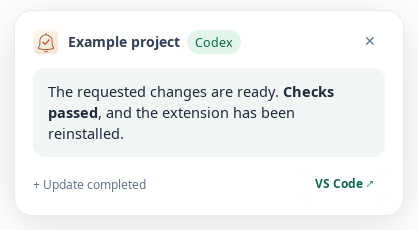
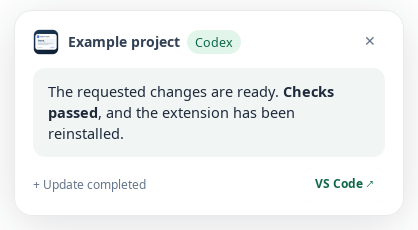
feat: add reply-preview branding and Marketplace packaging
Unpublished snapshot reissued with Commons Clause before the first public release.

Changed region(s): [[0.0622, 0.1217, 0.1555, 0.2435]]

diff --git a/media/sidebar.html b/media/sidebar.html
@@ -10,12 +10,22 @@
   <div class="header">
     <div class="header-title">
       <svg xmlns="http://www.w3.org/2000/svg" viewBox="0 0 256 256" class="sidebar-brand" data-notifier-logo="brand" aria-hidden="true">
-<defs><linearGradient id="bg" x2="0.3" y2="1"><stop stop-color="#FFF9EF" /><stop offset="1" stop-color="#F5E6D3" /></linearGradient></defs>
-<rect x="8" y="8" width="240" height="240" rx="54" fill="url(#bg)" />
-<rect x="8.5" y="8.5" width="239" height="239" rx="53.5" fill="none" stroke="#954322" stroke-opacity=".16" />
-<path d="M128 42v13M68 116C68 94 77 79 97 67Q128 49 159 67C179 79 188 94 188 116V142Q188 163 201 180Q208 190 195 194Q128 209 61 194Q48 190 55 180Q68 163 68 142Z" fill="none" stroke="#954322" stroke-width="8" stroke-linecap="round" stroke-linejoin="round" />
-<path d="M115 218Q128 230 141 218" fill="none" stroke="#954322" stroke-width="8" stroke-linecap="round" />
-<path d="M99 130l21 21 39-44" fill="none" stroke="#BD562A" stroke-width="13" stroke-linecap="round" stroke-linejoin="round" />
+<defs><linearGradient id="reply-bg" x2="0.4" y2="1"><stop stop-color="#1E3B57" /><stop offset="1" stop-color="#102237" /></linearGradient></defs>
+<rect x="8" y="8" width="240" height="240" rx="54" fill="url(#reply-bg)" />
+<rect x="23" y="57" width="210" height="155" rx="24" fill="#07131F" opacity=".35" />
+<rect x="23" y="49" width="210" height="155" rx="24" fill="#FFFFFF" />
+<rect x="38" y="63" width="24" height="24" rx="7" fill="#2563EB" />
+<path d="M55 75H44m0 0 4-4m-4 4 4 4" fill="none" stroke="#FFFFFF" stroke-width="2.4" stroke-linecap="round" stroke-linejoin="round" />
+<text x="71" y="80" font-family="DejaVu Sans, sans-serif" font-size="14" font-weight="700" fill="#30445A">Agent reply</text>
+<path d="m207 72 6 6m0-6-6 6" fill="none" stroke="#8D9CAB" stroke-width="1.8" stroke-linecap="round" />
+<rect x="36" y="96" width="184" height="66" rx="13" fill="#F0F4F7" />
+<text x="49" y="122" font-family="DejaVu Sans, sans-serif" font-size="21" font-weight="700" fill="#16324A">Done.</text>
+<path d="M50 139h143m-143 10h101" fill="none" stroke="#9AADB9" stroke-width="4" stroke-linecap="round" />
+<circle cx="47" cy="182" r="6" fill="#D8F4E8" />
+<path d="m44 182 2 2 4-4" fill="none" stroke="#16855D" stroke-width="1.8" stroke-linecap="round" stroke-linejoin="round" />
+<text x="59" y="186" font-family="DejaVu Sans, sans-serif" font-size="11" fill="#6E8394">Ready</text>
+<rect x="159" y="172" width="59" height="20" rx="7" fill="#EAF1FD" />
+<path d="M172 182h29m-5-4 5 4-5 4" fill="none" stroke="#2563EB" stroke-width="2" stroke-linecap="round" stroke-linejoin="round" />
 </svg>
       <span>Codex Ubuntu Notifications</span>
     </div>
@@ -145,9 +155,8 @@
   </div>
 
   <button class="btn btn-full" id="testBtn">
-    <svg xmlns="http://www.w3.org/2000/svg" viewBox="28 30 200 200" class="svg-icon notifier-glyph" data-notifier-logo="glyph" aria-hidden="true"><path d="M128 42v13M68 116C68 94 77 79 97 67Q128 49 159 67C179 79 188 94 188 116V142Q188 163 201 180Q208 190 195 194Q128 209 61 194Q48 190 55 180Q68 163 68 142Z" fill="none" stroke="currentColor" stroke-width="8" stroke-linecap="round" stroke-linejoin="round" />
-<path d="M115 218Q128 230 141 218" fill="none" stroke="currentColor" stroke-width="8" stroke-linecap="round" />
-<path d="M99 130l21 21 39-44" fill="none" stroke="currentColor" stroke-width="13" stroke-linecap="round" stroke-linejoin="round" />
+    <svg xmlns="http://www.w3.org/2000/svg" viewBox="0 0 24 24" class="svg-icon notifier-glyph" data-notifier-logo="glyph" aria-hidden="true">
+<path d="M5 2a4 4 0 0 0-4 4v10a4 4 0 0 0 4 4v3l5-3h9a4 4 0 0 0 4-4V6a4 4 0 0 0-4-4H5Zm0 2h14a2 2 0 0 1 2 2v10a2 2 0 0 1-2 2H9.4L7 19.4V18H5a2 2 0 0 1-2-2V6a2 2 0 0 1 2-2ZM6 7h12v2H6Zm0 4h9v2H6Z" fill="currentColor" stroke="none" fill-rule="evenodd" />
 </svg>
     <span>Send Test Notification Now</span>
   </button>

diff --git a/scripts/package.js b/scripts/package.js
@@ -4,12 +4,19 @@ const path = require("node:path");
 const { spawnSync } = require("node:child_process");
 
 const root = path.resolve(__dirname, "..");
-const { name, version } = require(path.join(root, "package.json"));
-const destination = path.join(root, "dist", `${name}-${version}.vsix`);
+const { name, version, repository } = require(path.join(root, "package.json"));
+const marketplace = process.argv.includes("--marketplace");
+const destination = path.join(root, "dist", `${name}-${version}${marketplace ? "-marketplace" : ""}.vsix`);
 fs.mkdirSync(path.dirname(destination), { recursive: true });
-// Local VSIX documentation uses its bundled screenshots, including before the
-// updated files have been pushed to the repository.
-const result = spawnSync("vsce", ["package", "--no-dependencies", "--no-rewrite-relative-links", "--out", destination], {
+// Local packages use bundled images; Marketplace packages use HTTPS URLs pinned
+// to the release tag, which must be public before the Marketplace upload.
+const repo = repository.url.replace(/\.git$/, "").replace(/\/$/, "");
+if (marketplace && !repo.startsWith("https://github.com/")) throw new Error("Declare the public HTTPS GitHub repository before building the Marketplace package.");
+const documentation = marketplace ? ["--githubBranch", `v${version}`,
+  "--baseContentUrl", `${repo}/blob/v${version}/`,
+  "--baseImagesUrl", `${repo.replace("https://github.com/", "https://raw.githubusercontent.com/")}/v${version}/`]
+  : ["--no-rewrite-relative-links"];
+const result = spawnSync("vsce", ["package", "--no-dependencies", ...documentation, "--out", destination], {
   cwd: root,
   stdio: "inherit",
   shell: process.platform === "win32"

diff --git a/media/sidebar.css b/media/sidebar.css
@@ -227,7 +227,7 @@
 .color-hex { width: 85px; padding: 5px; color: var(--vscode-input-foreground); background: var(--vscode-input-background); border: 1px solid var(--vscode-input-border, var(--border)); border-radius: 4px; font-family: var(--vscode-editor-font-family, monospace); font-size: 12px; }
 .color-hex:invalid { border-color: var(--vscode-inputValidation-errorBorder, #f14c4c); }
 
-/* Refined Ember branding uses the full approved light-background tile. */
+/* The brand tile previews an agent reply notification. */
 .sidebar-brand {
   width: 42px;
   height: 42px;
@@ -239,5 +239,6 @@
   .sidebar-brand { background: Canvas; color: CanvasText; outline: 1px solid CanvasText; }
   .sidebar-brand rect { fill: Canvas; stroke: CanvasText; }
   .sidebar-brand path[stroke] { stroke: CanvasText; }
-  .sidebar-brand path:last-child { fill: CanvasText; }
+  .sidebar-brand text, .sidebar-brand circle { fill: CanvasText; }
+  .sidebar-brand path[fill="none"] { fill: none; }
 }

diff --git a/scripts/check-package.py b/scripts/check-package.py
@@ -1,12 +1,32 @@
 """Check the actual VSIX allowlist and metadata without installing the extension."""
 from pathlib import Path
 import json
+import re
+import sys
 import zipfile
 import xml.etree.ElementTree as ET
 
 root = Path(__file__).resolve().parent.parent
 package = json.loads((root / "package.json").read_text())
-vsix = root / "dist" / f'{package["name"]}-{package["version"]}.vsix'
+marketplace = "--marketplace" in sys.argv[1:]
+suffix = "-marketplace" if marketplace else ""
+vsix = root / "dist" / f'{package["name"]}-{package["version"]}{suffix}.vsix'
+repository = package["repository"]["url"].removesuffix(".git").rstrip("/")
+assert repository.startswith("https://github.com/"), "Marketplace link checks require the declared HTTPS GitHub repository."
+release = "v" + package["version"]
+content_base = f"{repository}/blob/{release}/"
+image_base = repository.replace("https://github.com/", "https://raw.githubusercontent.com/", 1) + f"/{release}/"
+
+
+def local_documentation(data):
+    """Undo only the permitted release-tag URL rewrite, retaining exact source checks."""
+    def restore(match):
+        image, label, target = match.groups()
+        prefix = image_base if image else content_base
+        if target.startswith(prefix):
+            target = target.removeprefix(prefix)
+        return f"{image}[{label}]({target})"
+    return re.sub(r"(!?)\[([^\]\n]*)\]\(([^)\n]+)\)", restore, data.decode()).encode()
 expected = {"package.json", "extension.js", "preview-overlay.js", "codex-notifier.png", "icon.svg",
             "README.md", "CHANGELOG.md", "LICENSE", "ASSETS.md", "TESTING.md", "PUBLICATION.md"}
 expected.update({"lib/core.js", "lib/extension.js", "lib/monitor.js", "lib/platform.js", "lib/theme.js", "lib/worker.py",
@@ -32,9 +52,16 @@ with zipfile.ZipFile(vsix) as archive:
     for name in expected:
         packaged = archive.read(entries[name])
         source = (root / name).read_bytes()
+        if marketplace and name in {"README.md", "CHANGELOG.md"}:
+            if name == "README.md":
+                images = re.findall(r"!\[[^\]\n]*\]\(([^)\n]+)\)", packaged.decode())
+                assert images and all(url.startswith(image_base) and url.endswith(".png") for url in images), \
+                    "Marketplace images must use HTTPS PNG URLs pinned to this release tag."
+            packaged = local_documentation(packaged)
         assert packaged == source, f"Stale file: {name}"
     manifest = ET.fromstring(archive.read("extension.vsixmanifest"))
     identity = next(e for e in manifest.iter() if e.tag.endswith("}Identity"))
     assert identity.attrib["Version"] == package["version"]
     assert identity.attrib["Publisher"] == package["publisher"]
-print(f"Verified {vsix.name}: exact runtime allowlist, current sources and matching metadata.")
+print(f"Verified {vsix.name}: exact runtime allowlist, current sources, matching metadata" +
+      (" and release-tag HTTPS documentation links." if marketplace else "."))

diff --git a/scripts/generate-assets.py b/scripts/generate-assets.py
@@ -1,4 +1,4 @@
-"""Render original bell-and-check artwork and theme-aware companion icons."""
+"""Render an original reply notification preview and small reply-panel companion icons."""
 from copy import deepcopy
 from pathlib import Path
 import re
@@ -13,33 +13,25 @@ SVG = "{http://www.w3.org/2000/svg}"
 
 
 def generate_icons():
-    source = ROOT / "assets/notification-bell.svg"
-    with tempfile.TemporaryDirectory(prefix="codex-ember-") as temp:
+    source = ROOT / "assets/reply-preview.svg"
+    with tempfile.TemporaryDirectory(prefix="codex-reply-") as temp:
         target = Path(temp) / "icon.png"
         subprocess.run(["gjs", "-c", '''imports.gi.versions.GdkPixbuf="2.0";
 const p=imports.gi.GdkPixbuf.Pixbuf.new_from_file_at_scale(ARGV[0],1024,1024,true);
 p.savev(ARGV[1],"png",[],[]);''', str(source), str(target)], check=True)
         with Image.open(target) as image:
             image.resize((512, 512), Image.Resampling.LANCZOS).save(ROOT / "codex-notifier.png")
-    # Preserve the original bell and completion check for theme-aware icons.
-    paths = ET.parse(source).getroot().findall(SVG + "path")
-    for element in paths:
-        for attribute in ("fill", "stroke"):
-            if element.get(attribute) not in (None, "none"):
-                element.set(attribute, "currentColor")
+    # Small icons use a reply bubble and two answer lines instead of tiny text.
+    activity = ET.parse(ROOT / "assets/reply-glyph.svg").getroot()
     ET.register_namespace("", "http://www.w3.org/2000/svg")
-    activity = ET.Element(SVG + "svg", {"viewBox": "28 30 200 200"})
-    activity.extend(paths)
     ET.ElementTree(activity).write(ROOT / "icon.svg", encoding="unicode")
-    # Elementary bell and check geometry, created for this project. No vendor marks.
-    tray_path = ("M12 2c-3.9 0-6.5 2.9-6.5 6.8V13L3 17v2h18v-2L18.5 13V8.8"
-                 "C18.5 4.9 15.9 2 12 2Zm0 2c2.8 0 4.5 2.1 4.5 4.8v4.8L18.4 17H5.6"
-                 "l1.9-3.4V8.8C7.5 6.1 9.2 4 12 4ZM9 20a3 3 0 0 0 6 0H9Z"
-                 "M8.8 10.5l1.4-1.4 1.4 1.4 2.8-2.8 1.4 1.4-4.2 4.2Z")
     for name, color in (("blue", "#3b82f6"), ("blue-dim", "#183462"),
                         ("green", "#22c55e"), ("gray", "#9ca3af")):
-        tray = ET.Element(SVG + "svg", {"viewBox": "0 0 24 24", "width": "24", "height": "24"})
-        ET.SubElement(tray, SVG + "path", {"d": tray_path, "fill": color, "fill-rule": "evenodd"})
+        tray = deepcopy(activity)
+        tray.set("width", "24")
+        tray.set("height", "24")
+        for element in tray.findall(SVG + "path"):
+            element.set("fill", color)
         ET.ElementTree(tray).write(ROOT / "media" / f"codex-{name}.svg", encoding="unicode")
     # Keep both sidebar marks synchronized with the production silhouette.
     sidebar = ROOT / "media/sidebar.html"

diff --git a/ASSETS.md b/ASSETS.md
@@ -4,12 +4,12 @@ The notification icon artwork is generated from source in this repository. The f
 audio files are original sounds supplied by the project author; their sound
 design source is private and is not included in the public repository.
 
-- `codex-notifier.png`: original bell-and-check artwork, rendered at 512 x 512 from editable `assets/notification-bell.svg` by `scripts/generate-assets.py`. A burnt-orange outline bell with a curved rim contains a completion check on light ivory. The sidebar header uses the same full-color SVG.
-- `icon.svg`: the same original bell and completion check, rendered in `currentColor` for VS Code themes and sidebar controls.
-- `media/codex-blue.svg`, `media/codex-blue-dim.svg`, `media/codex-green.svg`, and `media/codex-gray.svg`: color variants of an original compact bell-and-check silhouette defined in `scripts/generate-assets.py`. The filenames identify the extension's Codex activity states; their geometry contains no OpenAI, Microsoft or Ubuntu logos.
+- `codex-notifier.png`: original miniature reply notification, rendered at 512 x 512 from editable `assets/reply-preview.svg` by `scripts/generate-assets.py`. A navy tile contains a white answer-preview card with an **Agent reply** header, a synthetic **Done.** answer, text lines and an action button. The sidebar header uses the same full-color SVG. Text is rasterized using the system DejaVu Sans font; no font files are bundled.
+- `icon.svg`: the simplified reply bubble and two answer lines from `assets/reply-glyph.svg`, rendered in `currentColor` for VS Code themes and sidebar controls. Small icons omit miniature text to stay legible.
+- `media/codex-blue.svg`, `media/codex-blue-dim.svg`, `media/codex-green.svg`, and `media/codex-gray.svg`: color variants of the same original reply glyph. The filenames identify the extension's Codex activity states; their geometry contains no OpenAI, Microsoft or Ubuntu logos.
 - `sounds/synth-1.wav` through `sounds/synth-4.wav`: four original stereo PCM startup cues supplied by the project author. The distributed cues retain their original soft stereo texture, with notes retuned into brighter major chords and durations shortened to 1.1 seconds. Their production scripts are intentionally private; the committed WAV files are the distribution artifacts.
 
-The original bell-and-check artwork, bundled sounds and public icon generator are distributed under the repository's MIT license subject to Commons Clause v1.0. Current distributed artwork contains no copied vendor logo geometry. Earlier visual experiments are local private material and are not public distribution sources.
+The original reply-preview artwork, bundled sounds and public icon generator are distributed under the repository's MIT license subject to Commons Clause v1.0. Current distributed artwork contains no copied vendor logo geometry. Earlier visual experiments are local private material and are not public distribution sources.
 Icon generation requires the development-only Pillow dependency in `requirements-assets.txt`, GJS and GdkPixbuf's SVG loader. The extension itself has no Pillow dependency.
 
 With the `aiml` environment already active:
@@ -19,7 +19,7 @@ python -m pip install -r requirements-assets.txt
 npm run assets:icons
 ```
 
-Edit `assets/notification-bell.svg` to change the icon's palette or geometry. `npm run assets:icons` regenerates the production PNG, monochrome Activity Bar SVG, inline sidebar marks and top-bar state icons. Keep the bundled WAV files when regenerating icons.
+Edit `assets/reply-preview.svg` to change the full-color card and `assets/reply-glyph.svg` to change the small-icon silhouette. `npm run assets:icons` regenerates the production PNG, monochrome Activity Bar SVG, inline sidebar marks and top-bar state icons. Keep the bundled WAV files when regenerating icons.
 
 `docs/screenshots/` contains a screenshot of the actual GTK notification and two GTK previews of the top-bar artwork, captured with synthetic content by `scripts/capture-readme.js`. No real conversations or desktop screenshots are included. To regenerate them in an X11/XWayland desktop session, run `GDK_BACKEND=x11 gjs scripts/capture-readme.js`. The top-bar layout is generated by `lib/topbarArtwork.js`, which the live indicator also uses.
 

diff --git a/TESTING.md b/TESTING.md
@@ -1,4 +1,4 @@
-# Release verification for 1.1.23
+# Release verification for 1.1.24
 
 Status: release candidate. Human desktop validation is pending; no supported desktop is certified by automated tests.
 
@@ -12,6 +12,8 @@ npm run public:check -- --release
 npm test
 npm run package
 npm run package:check
+npm run package:marketplace
+npm run package:check:marketplace
 ```
 
 Tests use temporary synthetic databases and mocked VS Code/desktop APIs. They do not read personal conversations, connect to a graphical session, install the extension, publish, or validate the GPU. CI runs on Ubuntu 22.04 and 24.04 with Python 3.10 and 3.12 and Node 22. Ubuntu 26.04 and ARM64 remain human validation targets rather than inferred CI coverage.
@@ -19,6 +21,10 @@ Tests use temporary synthetic databases and mocked VS Code/desktop APIs. They do
 Local automated evidence for 1.1.22, recorded 2026-11-07: 62 JavaScript tests and 20 Python tests pass in `aiml` with Node 26.6.0 and Python 3.10.20. Additional bounded checks exercised the actual GJS stdin reader with Unicode, invalid JSON and oversized input; real libnotify delivered a synthetic payload to a private D-Bus fixture. Documentation widgets were captured on a virtual display with synthetic content. These checks do not certify a real desktop/session combination.
 
 Version 1.1.23 passes 63 JavaScript tests and 23 Python tests. It adds regression coverage for stale Snap loader/module paths without SNAP markers, including matching JavaScript and Python cleanup results and system desktop-tool selection. Bounded system GTK startup probes also pass with three synthetic contaminated environments on a virtual display. The failed human run of 1.1.22 encountered a GJS shared-library error; it does not count as a passed desktop test.
+
+Recorded 2026-11-08: the user supplied a successful 1.1.23 desktop smoke-test log. It confirms green/0, blue/1, flashing, completion, singleton ownership, bootstrap handoff and native workspace-menu privacy. OS, desktop/session and VS Code package/version details were not supplied with that log, so the full matrix below remains unverified. The subsequent reply-artwork update needs visual confirmation after installation.
+
+On 2026-11-08 the user also confirmed ownership of the manifest's `KaroTechnica` Marketplace publisher ID. Public GitHub repository/tag availability and the remaining desktop checklist are still pending; a local package build does not validate publishing authentication.
 
 ## Human desktop run
 
@@ -41,7 +47,7 @@ In the development host:
 10. Install the generated VSIX explicitly in a separate VS Code profile and repeat steps 1 through 4:
 
 ```bash
-code --profile CodexNotifierReleaseTest --install-extension dist/codex-ubuntu-notifications-1.1.23.vsix
+code --profile CodexNotifierReleaseTest --install-extension dist/codex-ubuntu-notifications-1.1.24.vsix
 code --profile CodexNotifierReleaseTest --new-window .
 ```
 
@@ -67,6 +73,7 @@ A desktop/session combination not offered by the distribution is not applicable,
 - Manual matrix accurately records what was tested; limitations remain visible.
 - The GitHub repository link resolves and the publisher account owner confirms `KaroTechnica`.
 - Combined MIT + Commons Clause license, asset provenance, changelog and version agree.
+- The separate `-marketplace.vsix` passes its source and HTTPS-link checks. Its pinned public GitHub tag and screenshot URLs resolve before Marketplace upload.
 - Review the exact VSIX file list and commit diff, then authorize GitHub push and Marketplace publication separately.
 # Top-bar indicator checks
 

diff --git a/PUBLICATION.md b/PUBLICATION.md
@@ -7,6 +7,8 @@ npm run public:check -- --release
 npm test
 npm run package
 npm run package:check
+npm run package:marketplace
+npm run package:check:marketplace
 ```
 
 `public:check` inspects current publishable files, tracked exclusions and history reachable from HEAD, branches, tags and remote-tracking branches. It reports possible credential formats, personal home paths, private files and non-noreply commit email addresses without printing matched values. `--release` also rejects uncommitted changes and untracked public files. This is a pattern-based check, not proof that no possible secret exists. CI fetches full history to apply the same check.
@@ -28,6 +30,10 @@ git config --local user.email stiansci@users.noreply.github.com
 
 The public tree retains extension source, original artwork, tests, dependency lockfile, CI, license and user documentation. `.vscodeignore` separately limits the installed VSIX to runtime files and selected documentation. `dist/` is local output; release assets should be selected explicitly.
 
-Version 1.1.23 is a release candidate until the human desktop checklist in [TESTING.md](TESTING.md) is completed for the configurations advertised as tested. Automated fixtures and widget screenshots do not certify actual desktop integration. Record real results and retain unverified entries honestly.
+Version 1.1.24 is a release candidate until the remaining human desktop checklist in [TESTING.md](TESTING.md) is completed for the configurations advertised as tested. The user reported a passing 1.1.23 top-bar smoke test. That bounded test and synthetic widget screenshots do not certify the full desktop integration matrix. Record real results and retain unverified entries honestly.
+
+Build artifacts have separate destinations: the standard VSIX keeps bundled screenshots for local/offline installation and GitHub release downloads; the `-marketplace.vsix` rewrites README and changelog links to HTTPS URLs pinned to the `v1.1.24` GitHub tag. The package checker verifies exact runtime bytes, documentation transformations and metadata for both. Make the declared repository and release tag public before Marketplace upload, then verify the linked PNG images resolve. The declared repository returned 404 during the 2026-11-08 readiness review, and no Git remote was configured, so public repository availability remains a release gate. The user confirmed ownership of the `KaroTechnica` Marketplace publisher on 2026-11-08; the manifest uses that publisher ID. Publishing credentials or a trusted-publishing connection have not been exercised by these local checks.
+
+Marketplace publisher setup and publishing authentication follow the official [VS Code publishing guide](https://code.visualstudio.com/api/working-with-extensions/publishing-extension). Building either VSIX does not verify account ownership, upload the artifact or create the GitHub release.
 
 GitHub push and Marketplace publication are separate actions. Confirm the destination repository and publisher ownership before either action. No upload or publication is performed by the release scripts.

diff --git a/README.md b/README.md
@@ -14,11 +14,11 @@ PDF links in an answer add an **Open PDF** button to the bottom-left preview. Lo
 
 Bottom-left answer notification, captured from the running GTK popup with sample content:
 
-![Bottom-left answer notification with a bell-and-check icon and VS Code button](docs/screenshots/bottom-left-notification.png)
+![Bottom-left answer notification with a reply-preview icon and VS Code button](docs/screenshots/bottom-left-notification.png)
 
 | Working: flashing blue | Finished: steady green |
 | --- | --- |
-| ![Two active chats, separator, and blue bell](docs/screenshots/topbar-blue.png) | ![Zero active chats, separator, and green bell](docs/screenshots/topbar-green.png) |
+| ![Two active chats, separator, and blue reply bubble](docs/screenshots/topbar-blue.png) | ![Zero active chats, separator, and green reply bubble](docs/screenshots/topbar-green.png) |
 
 The screenshots use sample content and activity counts.
 
@@ -82,7 +82,7 @@ The **Colors** section provides a color picker and editable hex field for each t
 | --- | --- | --- |
 | `enabled` | `true` | Start or stop automatic monitoring. |
 | `mode` | `always` | `always` or `unfocused`. |
-| `topBarIndicator` | `true` | Show one shared top-bar count, separator and bell icon. |
+| `topBarIndicator` | `true` | Show one shared top-bar count, separator and reply icon. |
 | `topBarFlash` | `true` | Flash blue while working; disable for static blue. |
 | `colors` | `{}` | Optional hex color overrides, editable using the sidebar color pickers. |
 | `desktopNotification` | `false` | Optionally show a native Ubuntu desktop notification. |
@@ -115,5 +115,5 @@ Imported audio is stored locally. Cross-window claims contain hashed identifiers
 
 ## License
 
-Code and original bell-and-check artwork use the [MIT license subject to Commons Clause v1.0](LICENSE). No OpenAI logo is included in the current artwork. See [ASSETS.md](ASSETS.md) for provenance and regeneration instructions.
+Code and original reply-preview artwork use the [MIT license subject to Commons Clause v1.0](LICENSE). No OpenAI logo is included in the current artwork. See [ASSETS.md](ASSETS.md) for provenance and regeneration instructions.
 

diff --git a/CHANGELOG.md b/CHANGELOG.md
@@ -1,5 +1,13 @@
 # Changelog
 
+## 1.1.24
+
+- Replace the bell with an original miniature agent-reply notification card for the Marketplace icon, popup and sidebar header.
+- Use a simplified reply bubble with answer lines for the Activity Bar and top-bar status colors.
+- Refresh the synthetic notification and top-bar screenshots to match the new artwork.
+- Add a separately checked Marketplace VSIX with HTTPS documentation images pinned to the release tag; keep local VSIX documentation usable offline.
+- Record the user-reported successful 1.1.23 top-bar smoke test without implying that the full desktop release checklist has passed.
+
 ## 1.1.23
 
 - Clean inherited Snap library, GTK/GIO module and typelib paths even when terminal sessions no longer contain SNAP or SNAP_NAME.
